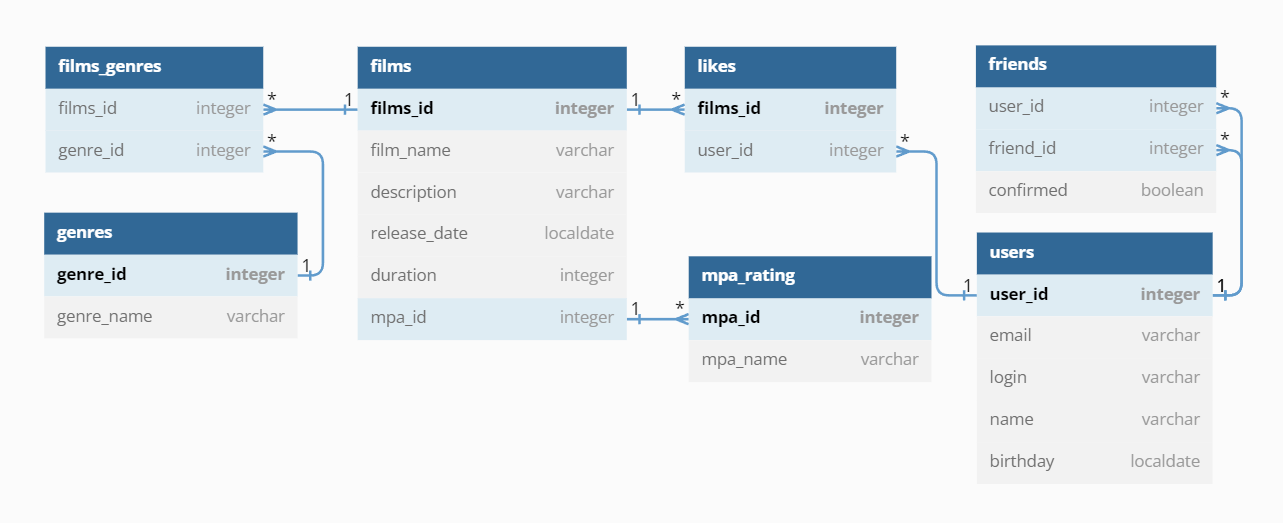
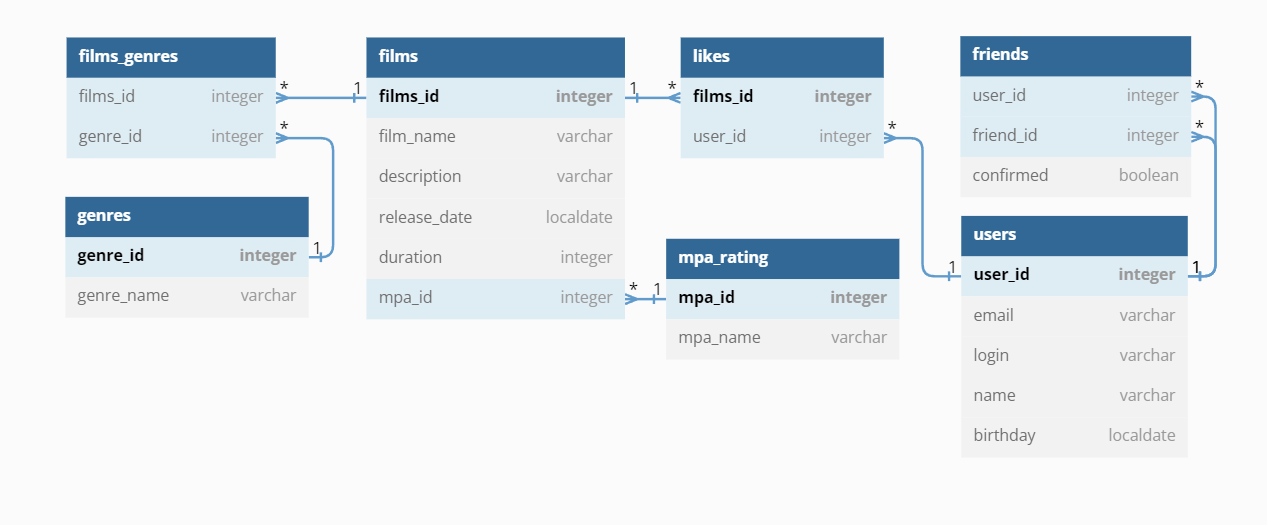
fix: изменена связь между films и mpa

Changed region(s): [[0.0308, 0.0612, 0.985, 0.7648], [0.7695, 0.7954, 0.8311, 0.9178], [0.8619, 0.7954, 0.9542, 0.9178]]

diff --git a/README.md b/README.md
@@ -2,4 +2,4 @@
 
 [DBdiagram link](https://dbdiagram.io/d/6446b75e6b319470511ce32a).
 
-![diagram](https://i.ibb.co/dJjrYgJ/database.png).
+![diagram](https://i.ibb.co/VjbhFkH/database.png).
